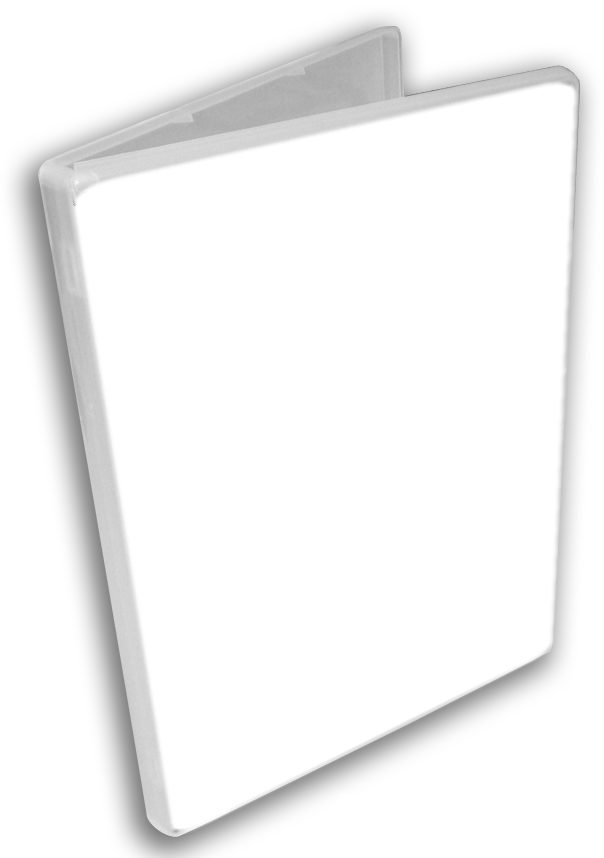
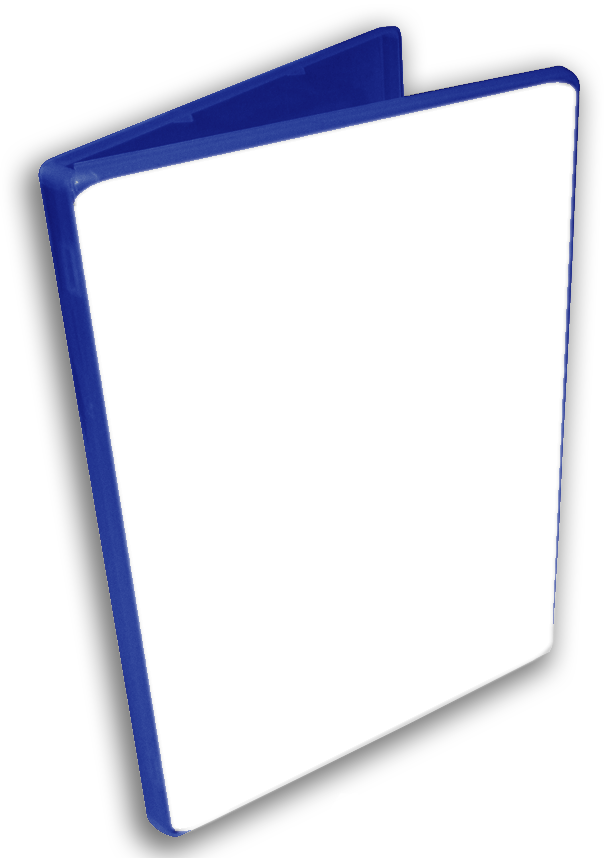
More 2.0 updates

Changed region(s): [[0.0596, 0.0303, 0.9834, 1.0], [0.9238, 0.1515, 0.9536, 0.6061], [0.894, 0.6364, 0.9238, 0.6667]]

diff --git a/CoverArtConfig/MainWindow.xaml.cs b/CoverArtConfig/MainWindow.xaml.cs
@@ -197,18 +197,30 @@ namespace CoverArtConfig
             if (!PreviewItems.ContainsKey(imageSetName))
             {
                 this.Cursor = Cursors.Wait;
-                PreviewItems.Add(imageSetName, CreatePreviews(currentImageSet, imageSetName, imageSetType));
+                PreviewItems.Add(imageSetName, CreatePreviews(currentProfileDef, currentImageSet, imageSetName, imageSetType));
                 this.Cursor = Cursors.Arrow;
             }
             coversView.ItemsSource = PreviewItems[imageSetName];
         }
 
-        public static List<PreviewItem> CreatePreviews(ImageSet imageSet, string imageSetName)
+        private static string Translate(ProfileDefinition profile, string type)
         {
-            return CreatePreviews(imageSet, imageSetName, "all");
+            if (profile.TypeMap.ContainsKey(type))
+                return profile.TypeMap[type];
+            else return type;
         }
 
-        public static List<PreviewItem> CreatePreviews(ImageSet imageSet, string imageSetName, string previewType) {
+        //public List<PreviewItem> CreatePreviews(ImageSet imageSet, string imageSetName)
+        //{
+        //    return CreatePreviews(currentProfileDef, imageSet, imageSetName);
+        //}
+
+        public static List<PreviewItem> CreatePreviews(ProfileDefinition profile, ImageSet imageSet, string imageSetName)
+        {
+            return CreatePreviews(profile, imageSet, imageSetName, "all");
+        }
+
+        public static List<PreviewItem> CreatePreviews(ProfileDefinition profile, ImageSet imageSet, string imageSetName, string previewType) {
             List<PreviewItem> previews = new List<PreviewItem>();
             string filename;
             List<string> keys;
@@ -235,11 +247,15 @@ namespace CoverArtConfig
             {
                 if (keys.Contains(entry.Key)) //just create the ones we want
                 {
-                    System.Drawing.Image img = CoverArt.Plugin.CreateImage((System.Drawing.Image)entry.Value.Clone(), (System.Drawing.Image)CoverArtConfig.Resources.cover1.Clone(), imageSet.Overlay, imageSet.RootPosition, imageSet.FrameOnTop, imageSet.RoundCorners, imageSet.JustRoundCorners, imageSet.Is3D, imageSet.Skew);
+                    //translate if need be
+                    System.Drawing.Image frame = (System.Drawing.Image)imageSet.Frames[Translate(profile, entry.Key)].Clone();
+                    System.Drawing.Image img = CoverArt.Plugin.CreateImage(frame, (System.Drawing.Image)CoverArtConfig.Resources.cover1.Clone(), imageSet.Overlay, imageSet.RootPosition, imageSet.FrameOnTop, imageSet.RoundCorners, imageSet.JustRoundCorners, imageSet.Is3D, imageSet.Skew);
                     filename = System.IO.Path.Combine(TempLocation, imageSetName.GetMD5() + System.DateTime.Now.Millisecond.ToString() + entry.Key + ".png");
                     img.Save(filename, System.Drawing.Imaging.ImageFormat.Png);
                     previews.Add(new PreviewItem(filename, entry.Key));
                     img.Dispose();
+                    frame.Dispose();
+                    frame = null;
                     img = null;
                 }
             }

diff --git a/CoverArt/Code/Profile.cs b/CoverArt/Code/Profile.cs
@@ -14,21 +14,23 @@ namespace CoverArt
     public class Profile
     {
         protected Dictionary<string, ImageSet> imageSets = new Dictionary<string, ImageSet>();
+        protected Dictionary<string, string> typeMap = new Dictionary<string, string>();
 
         public bool CoverByDefinition = false;
 
 
         public Profile()
         {
-            init(null, null, null, null, null, null, null, null, false);
+            init(null, null, null, null, null, null, null, null, false, null);
         }
-        public Profile(string movieLocation, string seriesLocation, string seasonLocation, string episodeLocation, string remoteLocation, string thumbLocation, string albumLocation, string folderLocation, bool coverByDef)
+        public Profile(string movieLocation, string seriesLocation, string seasonLocation, string episodeLocation, string remoteLocation, string thumbLocation, string albumLocation, string folderLocation, bool coverByDef, Dictionary<string,string> typeMap)
         {
-            init(movieLocation, seriesLocation, seasonLocation, episodeLocation, remoteLocation, thumbLocation, albumLocation, folderLocation, coverByDef);
+            init(movieLocation, seriesLocation, seasonLocation, episodeLocation, remoteLocation, thumbLocation, albumLocation, folderLocation, coverByDef, typeMap);
         }
 
-        private void init(string movieLocation, string seriesLocation, string seasonLocation, string episodeLocation, string remoteLocation, string thumbLocation, string albumLocation, string folderLocation, bool coverByDef)
+        private void init(string movieLocation, string seriesLocation, string seasonLocation, string episodeLocation, string remoteLocation, string thumbLocation, string albumLocation, string folderLocation, bool coverByDef, Dictionary<string,string> typeMap)
         {
+
             if (String.IsNullOrEmpty(movieLocation))
             {
                 movieLocation = "CoverArtCase";
@@ -70,6 +72,8 @@ namespace CoverArt
 
             CoverByDefinition = coverByDef;
 
+            this.typeMap = typeMap;
+
             //Create all our imagesets
             imageSets.Add("default", new ImageSet("CoverArtCase"));
             imageSets.Add("movie", new ImageSet(movieLocation));
@@ -80,6 +84,13 @@ namespace CoverArt
             imageSets.Add("album", new ImageSet(albumLocation));
             imageSets.Add("thumb", new ImageSet(thumbLocation));
             imageSets.Add("folder", new ImageSet(folderLocation));
+        }
+
+        public string Translate(string type)
+        {
+            if (typeMap.ContainsKey(type))
+                return typeMap[type];
+            else return type;
         }
 
         public ImageSet GetImageSet(string location)
@@ -199,7 +210,7 @@ namespace CoverArt
 
         public Image MovieFrame(string type)
         {
-            return Frame("movie", type);
+            return Frame("movie", Translate(type));
         }
 
         public Image SeasonFrame(string type)

diff --git a/CoverArt/Code/Serialization/MyXMLSettings.cs b/CoverArt/Code/Serialization/MyXMLSettings.cs
@@ -280,6 +280,48 @@ namespace CoverArt
             }
         }
 
+        class StringDictionarySerializer : AbstractSerializer
+        {
+
+            public override object Read(XmlNode node, Type type)
+            {
+                Dictionary<string, string> dict = new Dictionary<string,string>();
+
+                var serializer = FindSerializer(typeof(string));
+
+                foreach (XmlNode child in node.ChildNodes)
+                {
+                    dict.Add(child.Name,(string)serializer.Read(child, typeof(string)));
+                }
+                return dict;
+            }
+
+            public override void Write(XmlNode node, object o)
+            {
+                Dictionary<string, string> dict = (Dictionary<string,string>)o;
+
+                node.InnerXml = "";
+
+                if (dict != null)
+                {
+
+                    var serializer = FindSerializer(typeof(string));
+
+                    foreach (KeyValuePair<string,string> entry in dict)
+                    {
+                        var inner = node.OwnerDocument.CreateNode(XmlNodeType.Element, entry.Key, null);
+                        node.AppendChild(inner);
+                        serializer.Write(inner, entry.Value);
+                    }
+                }
+            }
+
+            public override bool SupportsType(Type type)
+            {
+                return type == typeof(Dictionary<string,string>);
+            }
+        }
+
 
         #endregion
 
@@ -310,6 +352,7 @@ namespace CoverArt
                 new EnumSerializer(),
                 new ListSerializer(),
                 new RectangleSerializer(),
+                new StringDictionarySerializer(),
                 new GenericObjectSerializer()
             };
         }

diff --git a/CoverArt/Code/ConfigData.cs b/CoverArt/Code/ConfigData.cs
@@ -18,7 +18,7 @@ namespace CoverArt
             //translate defintions to actual profiles
             foreach (ProfileDefinition def in ProfileDefs)
             {
-                Profiles.Add(def.Directory.ToLower(), new Profile(def.MovieLocation, def.SeriesLocation, def.SeasonLocation, def.EpisodeLocation, def.RemoteLocation, def.ThumbLocation, def.AlbumLocation, def.FolderLocation, def.CoverByDefinition));
+                Profiles.Add(def.Directory.ToLower(), new Profile(def.MovieLocation, def.SeriesLocation, def.SeasonLocation, def.EpisodeLocation, def.RemoteLocation, def.ThumbLocation, def.AlbumLocation, def.FolderLocation, def.CoverByDefinition, def.TypeMap));
             }
             //and add in default if not already there
             if (!Profiles.ContainsKey("default"))

diff --git a/CoverArt/Code/ImageSet.cs b/CoverArt/Code/ImageSet.cs
@@ -581,9 +581,9 @@ namespace CoverArt
                     //Internal OpenCase
                     Is3D = true;
                     Skew = new SkewRatios(0, .144, 1, 0, .2, 1, .95, .75);
-                    FrameOnTop = false;
-                    RootPosition = new Rectangle(73,85,500,750);
-                    Overlay = OCOverlay;
+                    FrameOnTop = true;
+                    RootPosition = new Rectangle(70,72,510,767);
+                    Overlay = BlankOverlay;
                     RoundCorners = true;
                     Frames = InternalOpenCase;
                     break;

diff --git a/CoverArtConfig/ImageSetsWindow.xaml.cs b/CoverArtConfig/ImageSetsWindow.xaml.cs
@@ -189,7 +189,7 @@ namespace CoverArtConfig
                     PreviewWin.Closed += previewWindowClosed;
                 }
                 this.Cursor = Cursors.Wait;
-                PreviewWin.Previews = MainWindow.CreatePreviews(imageSet, imageSetName);
+                PreviewWin.Previews = MainWindow.CreatePreviews(new ProfileDefinition(), imageSet, imageSetName);
                 this.Cursor = Cursors.Arrow;
                 PreviewWin.UpdatePreviews();
                 PreviewWin.Show();

diff --git a/CoverArt/Code/ProfileDefinition.cs b/CoverArt/Code/ProfileDefinition.cs
@@ -19,6 +19,7 @@ namespace CoverArt
         public string AlbumLocation = "CoverArtCD";
         public string FolderLocation = "Ignore";
         public bool CoverByDefinition = false;
+        public Dictionary<string, string> TypeMap = new Dictionary<string, string>(){{"MKV","BD"},{"AVI","default"}};
 
         public override string ToString()
         {
